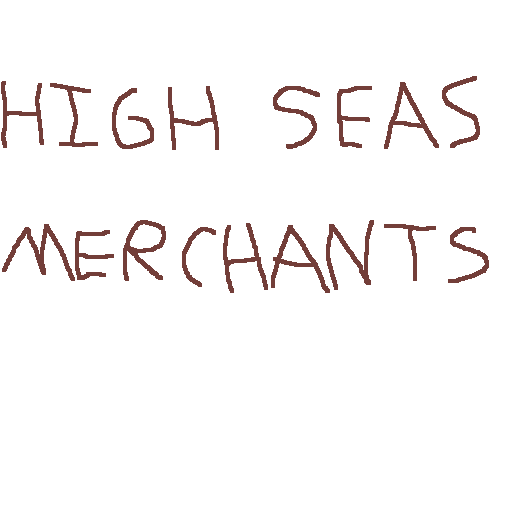
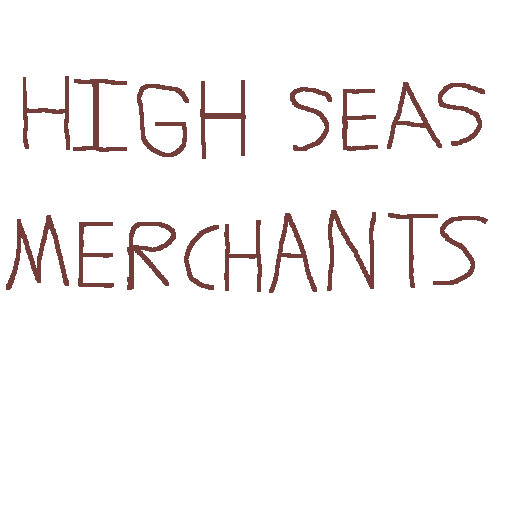
Title Screen Finished
Updated the title screen image, added text asking the player to press any key to continue, also labeled setup section of main.py with more inline comments

diff --git a/main.py b/main.py
@@ -18,20 +18,23 @@ setupObject.openingText()
 player = Player('Joshua', 300, 100.00, Inventory(True, globalItemList), 7, 13)
 
 # Pygame Setup
-pygame.init()
+pygame.init() # Initial setup
 screen = pygame.display.set_mode((0, 0), pygame.FULLSCREEN)
 clock = pygame.time.Clock()
 running = True
 
-pygame.display.set_caption("High Seas Merchants")
+pygame.display.set_caption("High Seas Merchants") # Window name and icon
 icon = pygame.image.load('Assets/IconHSM.png')
 pygame.display.set_icon(icon)
 
-titleScreen = pygame.image.load('Assets/TitleScreenHSM.png')
+titleScreen = pygame.image.load('Assets/TitleScreenHSM.png') # Title screen
 screen.fill(color=(153, 204, 255))
-pygame.Surface.blit(screen, titleScreen, (500, 200))
+font = pygame.font.SysFont("constantia", 34, False, False)
+text = font.render("Press any key to continue", True, pygame.Color((115, 62, 57)))
+pygame.Surface.blit(screen, titleScreen, (500, 125))
+pygame.Surface.blit(screen, text, (570, 600))
 
-while running:
+while running: # Game loop
     for event in pygame.event.get():
         if event.type == pygame.QUIT:
             running = False
@@ -48,3 +51,5 @@ player.inventory.addItem(globalItemList[17], 3)
 player.inventory.removeItem(globalItemList[8], 5)
 player.trade(globalItemList[4], 7, globalItemList[2], 4, 200)
 player.inventory.showItems()
+
+#print(pygame.font.get_fonts())
